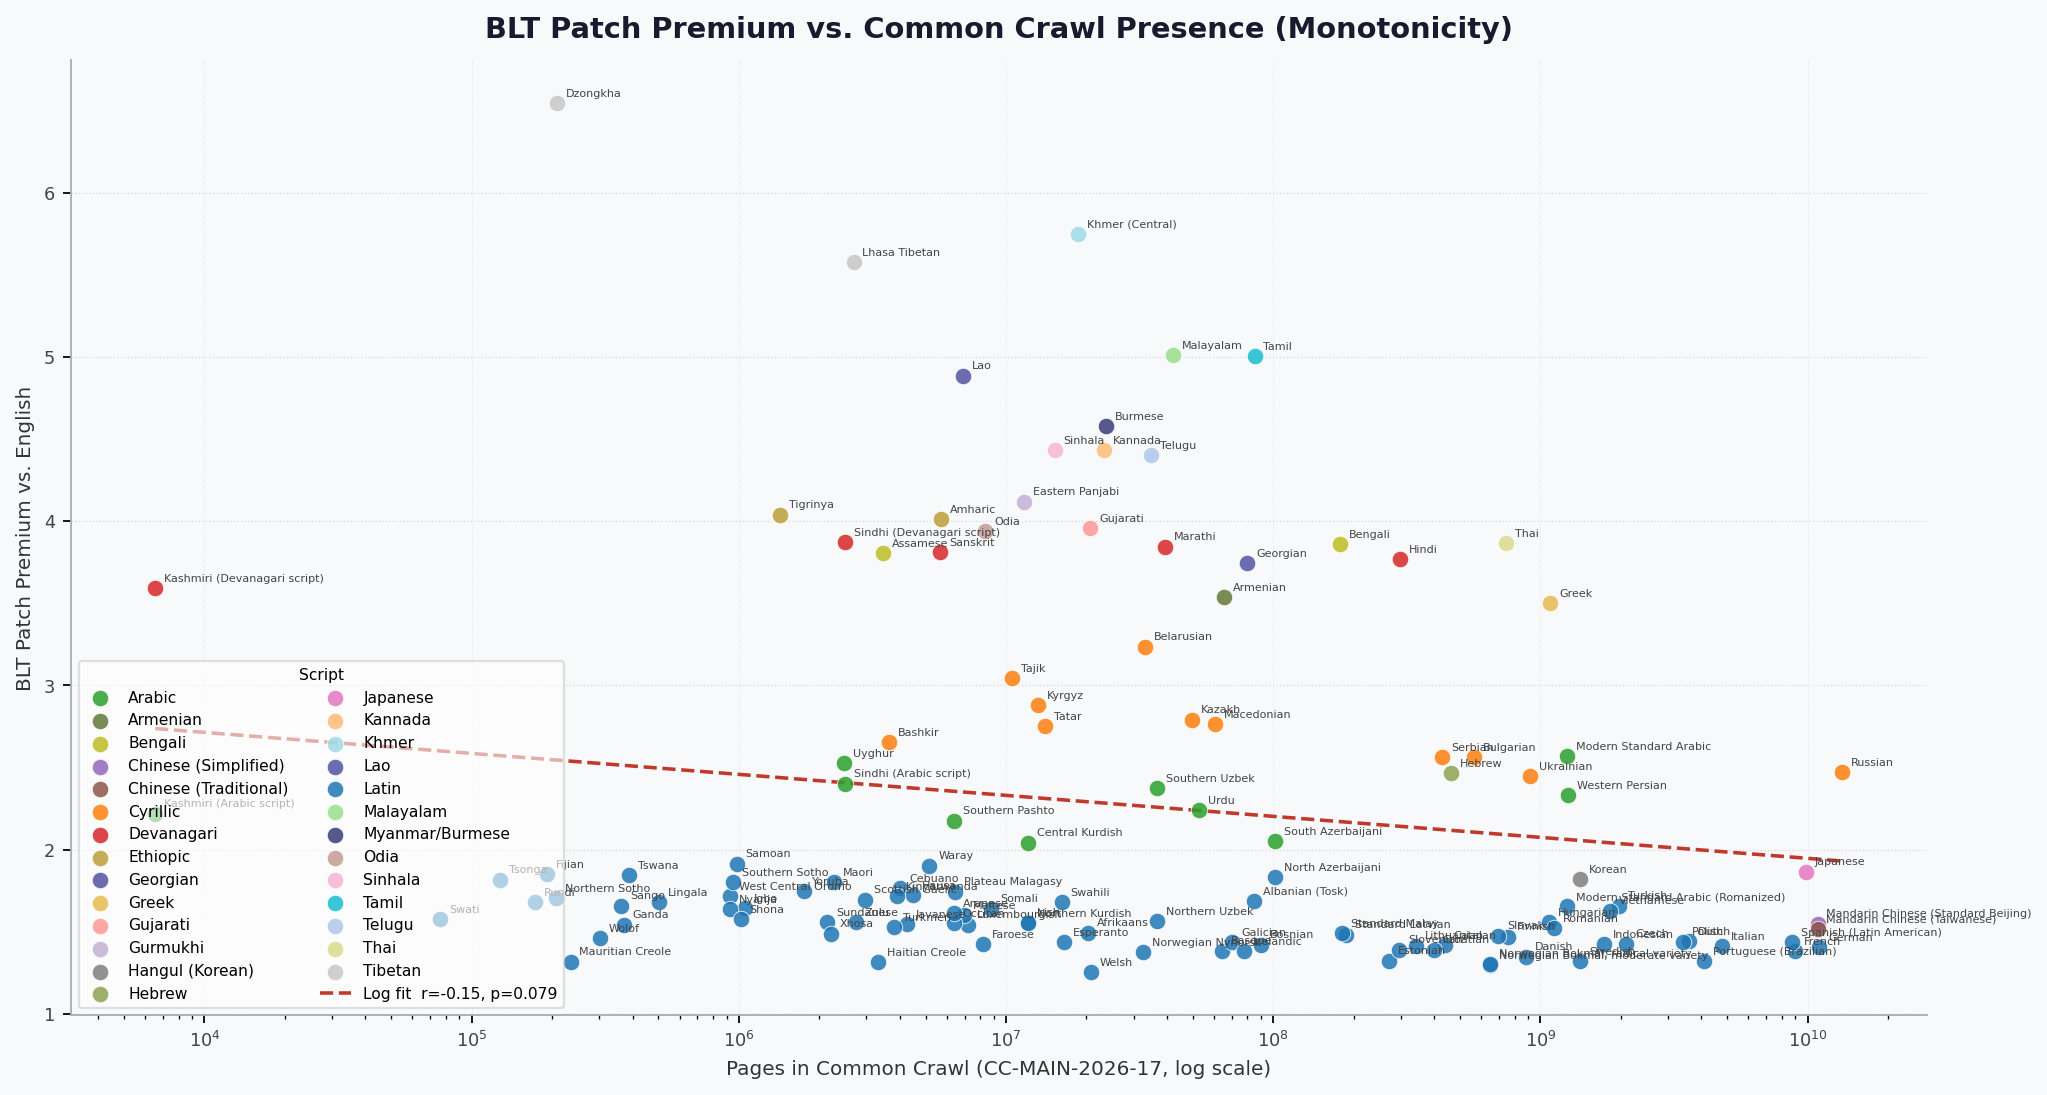
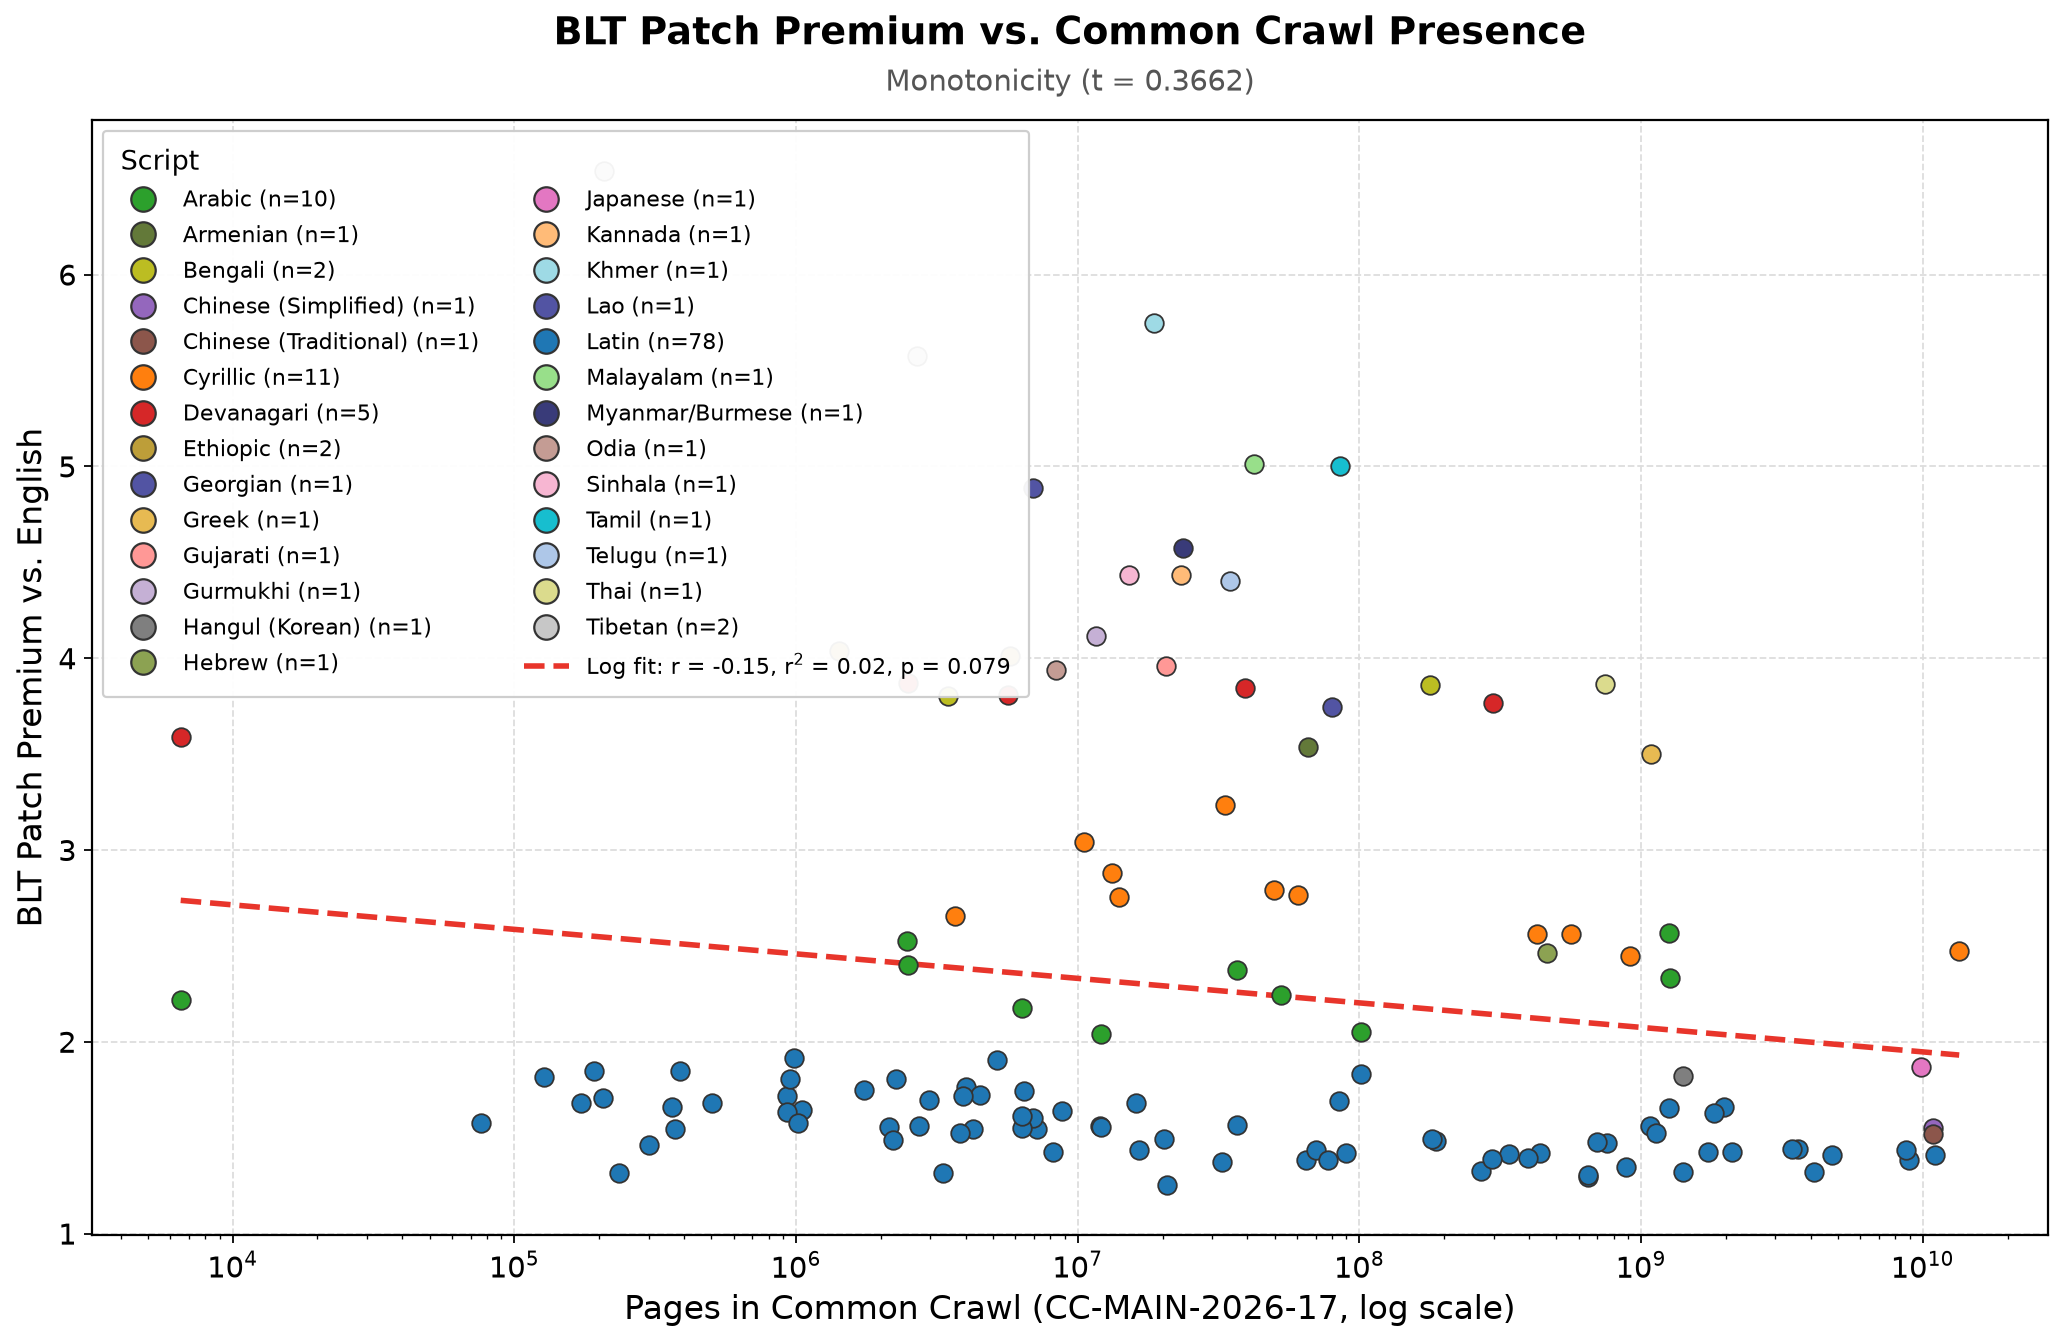
rerun plots for consistent styling

diff --git a/plotting_scripts/correlate_w_llama2_training_data.py b/plotting_scripts/correlate_w_llama2_training_data.py
@@ -1,6 +1,9 @@
 #!/usr/bin/env python3
 """
 plot_llama2_correlation.py
+
+run in the "plots" conda environment (see README.md) to generate charts and a CSV table
+
 Plots BLT patch premium vs. Llama 2 training-data volume, in two variants:
   1) raw reported token counts (as published in Touvron et al. Table 10)
   2) content-adjusted token counts, correcting for the fact that different
@@ -20,13 +23,18 @@ across languages regardless of how verbose their tokenisation happens to be.
 Adjusted percentages (for the LaTeX table) are saved to ADJUSTED_OUT_CSV.
 Charts are saved to charts/, one raw-token and one content-adjusted chart per
 premium mode listed in PREMIUM_COLS.
+
+Optional: `pip install adjustText` for automatic, non-overlapping point labels
+with leader lines. Without it, labels fall back to a fixed offset.
 """
 
 import json
+import re
 import pandas as pd
 import matplotlib
 matplotlib.use("Agg")
 import matplotlib.pyplot as plt
+import matplotlib.ticker as mticker
 import numpy as np
 from scipy import stats
 from pathlib import Path
@@ -56,6 +64,14 @@ TITLE_LABELS = {
     "raw_monotonicity": "Monotonicity",
     "norm_entropy":      "Normalisation",
 }
+
+# ── Plot style (matches the "Premium vs. Entropy mean" charts) ────────────────
+
+FIT_COLOR     = "#e8352b"
+EDGE_COLOR    = "#333333"
+LEADER_COLOR  = "#999999"
+SUBTITLE_GREY = "#555555"
+GRID_COLOR    = "#dddddd"
 
 # ── Llama 2 training data (billions of tokens), from the Llama 2 paper ────────
 
@@ -196,8 +212,6 @@ print(f"  {'Unknown':12s} {unknown_share_pct:7.3f}%   (unchanged, not content-ad
 
 # ── Save adjusted table (this is what feeds the LaTeX table's Percent' column) ─
 
-# ── Save adjusted table (this is what feeds the LaTeX table's Percent' column) ─
-
 adj_rows = []
 for iso, tokens_B in llama2_tokens.items():
     adj_rows.append({
@@ -267,52 +281,101 @@ def build_df(volume_by_iso, volume_col, prem_by_code):
     return df
 
 
-# ── Chart helper ────────────────────────────────────────────────────────────────
+# ── Chart helpers ───────────────────────────────────────────────────────────────
 
-def make_chart(df, volume_col, xlabel, title, out_path):
+def _label_points(ax, df, volume_col):
+    """Point labels with thin grey leader lines. Uses adjustText if installed
+    (non-overlapping placement, as in the reference charts); otherwise falls
+    back to a fixed offset."""
+    leader = dict(arrowstyle='-', color=LEADER_COLOR, lw=0.8)
+    try:
+        from adjustText import adjust_text
+    except ImportError:
+        adjust_text = None
+
+    if adjust_text is not None:
+        texts = [
+            ax.text(row[volume_col], row['premium'], row['language'],
+                    fontsize=11, color='#222222', zorder=4)
+            for _, row in df.iterrows()
+        ]
+        adjust_text(texts, x=df[volume_col].values, y=df['premium'].values,
+                    ax=ax, arrowprops=leader)
+    else:
+        for _, row in df.iterrows():
+            ax.annotate(row['language'], (row[volume_col], row['premium']),
+                        xytext=(12, 10), textcoords='offset points',
+                        fontsize=11, color='#222222', ha='left', va='bottom',
+                        arrowprops=leader, zorder=4)
+
+
+def make_chart(df, volume_col, xlabel, title, subtitle, out_path):
     log_vol = np.log(df[volume_col])
     slope, intercept, r, p, se = stats.linregress(log_vol, df['premium'])
     x_fit = np.linspace(df[volume_col].min(), df[volume_col].max(), 200)
     y_fit = slope * np.log(x_fit) + intercept
 
-    fig, ax = plt.subplots(figsize=(11, 7))
-    fig.patch.set_facecolor("#f8f9fa")
-    ax.set_facecolor("#f8f9fa")
+    fig, ax = plt.subplots(figsize=(11, 8.5))
+    fig.patch.set_facecolor("white")
+    ax.set_facecolor("white")
 
+    # points
     for _, row in df.iterrows():
         ax.scatter(row[volume_col], row['premium'],
-                   color=row['color'], edgecolors='white',
-                   linewidths=0.6, s=75, zorder=3, alpha=0.9)
-        ax.annotate(row['language'], (row[volume_col], row['premium']),
-                    fontsize=6.5, ha='left', va='bottom',
-                    xytext=(4, 3), textcoords='offset points', color='#333')
+                   color=row['color'], edgecolors=EDGE_COLOR,
+                   linewidths=1.0, s=220, zorder=3)
+    _label_points(ax, df, volume_col)
 
-    ax.plot(x_fit, y_fit, color='tomato', linewidth=1.8,
-            linestyle='--', label=f'Log fit  (r={r:.2f}, p={p:.3f})', zorder=2)
+    # fit line
+    fit_label = f'Log fit: r = {r:.2f}, r$^2$ = {r**2:.2f}, p = {p:.3f}'
+    ax.plot(x_fit, y_fit, color=FIT_COLOR, linewidth=2.5,
+            linestyle='--', zorder=2)
 
-    present_scripts = df['script'].unique()
+    # legend: one entry per script with counts, then the fit line
+    script_counts = df['script'].value_counts()
     script_handles = [
-        plt.Line2D([0], [0], marker='o', color='w',
-                   markerfacecolor=SCRIPT_COLORS[s], markersize=8, label=s)
-        for s in present_scripts if s in SCRIPT_COLORS
+        plt.Line2D([0], [0], marker='o', linestyle='None',
+                   markerfacecolor=SCRIPT_COLORS[s], markeredgecolor=EDGE_COLOR,
+                   markeredgewidth=1.0, markersize=13,
+                   label=f'{s} (n={script_counts[s]})')
+        for s in df['script'].unique() if s in SCRIPT_COLORS
     ]
     script_handles.append(
-        plt.Line2D([0], [1], color='tomato', linewidth=1.8,
-                   linestyle='--', label=f'Log fit (r={r:.2f}, p={p:.3f})')
+        plt.Line2D([0], [0], color=FIT_COLOR, linewidth=2.5,
+                   linestyle='--', label=fit_label)
     )
-    ax.legend(handles=script_handles, title='Script', fontsize=8,
-              title_fontsize=9, loc='lower left', framealpha=0.9)
+    leg = ax.legend(handles=script_handles, title='Script', fontsize=12,
+                    title_fontsize=13, loc='best', frameon=True,
+                    framealpha=0.95, edgecolor='#cccccc', fancybox=True,
+                    borderpad=0.8, labelspacing=0.7)
+    leg._legend_box.align = "left"
 
-    ax.set_xlabel(xlabel, fontsize=11)
-    ax.set_ylabel('Tokenisation premium vs. English', fontsize=11)
-    ax.set_title(title, fontsize=12, fontweight='bold')
-    ax.grid(True, alpha=0.3, linestyle='--')
+    # titles
+    ax.set_title(title, fontsize=17, fontweight='bold', pad=34)
+    ax.text(0.5, 1.02, subtitle, transform=ax.transAxes,
+            ha='center', va='bottom', fontsize=13, color=SUBTITLE_GREY)
+
+    # axes
+    ax.set_xlabel(xlabel, fontsize=15)
+    ax.set_ylabel('Tokenisation premium vs. English', fontsize=15)
+    ax.tick_params(axis='both', labelsize=13)
+
     ax.set_xscale('log')
-    ax.spines[["top", "right"]].set_visible(False)
-    ax.spines[["left", "bottom"]].set_color("#aaaaaa")
+    ax.xaxis.set_major_locator(mticker.LogLocator(base=10, subs=(1.0, 2.0, 5.0)))
+    ax.xaxis.set_major_formatter(mticker.FuncFormatter(lambda v, _: f'{v:g}'))
+    ax.xaxis.set_minor_formatter(mticker.NullFormatter())
+
+    ax.grid(True, which='major', linestyle='--', color=GRID_COLOR, linewidth=0.8)
+    ax.grid(False, which='minor')
+    ax.set_axisbelow(True)
+
+    for spine in ax.spines.values():
+        spine.set_visible(True)
+        spine.set_color('black')
+        spine.set_linewidth(1.0)
 
     plt.tight_layout()
-    fig.savefig(out_path, dpi=150, bbox_inches='tight')
+    fig.savefig(out_path, dpi=150, bbox_inches='tight', facecolor='white')
     plt.close(fig)
     print(f"Pearson r ({volume_col}, log): {r:.3f}, p={p:.4f}, N={len(df)}  -> {out_path}")
 
@@ -328,19 +391,24 @@ for mode_label, prem_col in PREMIUM_COLS.items():
     premium_stem = prem_col.replace("_pps_premium", "")
     mode_title   = TITLE_LABELS.get(mode_label, mode_label)
 
+    m = re.search(r"_t_([\d.]+)", prem_col)
+    thresh_str = f" (t = {m.group(1)})" if m else ""
+
     df_raw = build_df(llama2_tokens, 'tokens_B', prem_by_code)
     df_adj = build_df(adjusted_tokens_B, 'adj_tokens_B', prem_by_code)
 
     make_chart(
         df_raw, 'tokens_B',
         xlabel='Training data in Llama 2 (billions of tokens)',
-        title=f'BLT Patch Premium vs. Llama 2 Training Data (Raw Tokens, {mode_title})',
+        title='BLT Patch Premium vs. Llama 2 Training Data',
+        subtitle=f'{mode_title}, raw token counts{thresh_str}',
         out_path=f'charts/premium_vs_llama2_data_{premium_stem}.png',
     )
 
     make_chart(
         df_adj, 'adj_tokens_B',
         xlabel='Estimated training data in Llama 2 (billions of tokens, content-adjusted)',
-        title=f'BLT Patch Premium vs. Llama 2 Training Data (Content-Adjusted, {mode_title})',
+        title='BLT Patch Premium vs. Llama 2 Training Data',
+        subtitle=f'{mode_title}, content-adjusted token counts{thresh_str}',
         out_path=f'charts/premium_vs_llama2_data_adjusted_{premium_stem}.png',
     )

diff --git a/plotting_scripts/correlate_w_cc_pages.py b/plotting_scripts/correlate_w_cc_pages.py
@@ -6,9 +6,13 @@ contains BOTH the BLT patch-premium results and the Common Crawl page counts
 in a single file — then plots BLT patch premium vs. Common Crawl page count
 with per-script colouring and a log-scale x-axis, for both raw entropy and
 monotonicity premiums.
+
+Optional: `pip install adjustText` for automatic, non-overlapping point labels
+with leader lines. Without it, labels fall back to a fixed offset.
 """
 
 import csv
+import re
 import matplotlib
 matplotlib.use("Agg")
 import matplotlib.pyplot as plt
@@ -43,12 +47,18 @@ TITLE_LABELS = {
     "norm_entropy":      "Normalisation",
 }
 
-# ── Style ─────────────────────────────────────────────────────────────────────
+# ── Style (matches the "Premium vs. Entropy mean" charts) ─────────────────────
 
-FONT_TITLE = {"fontsize": 13, "fontweight": "bold", "color": "#1a1a2e"}
-FONT_AXIS  = {"fontsize": 9,  "color": "#333333"}
-FONT_TICK  = {"labelsize": 8, "labelcolor": "#444444"}
+FIT_COLOR     = "#e8352b"
+EDGE_COLOR    = "#333333"
+LEADER_COLOR  = "#999999"
+SUBTITLE_GREY = "#555555"
+GRID_COLOR    = "#dddddd"
 
+# With many languages, full-size labels and markers would swamp the plot, so
+# they shrink once the point count passes this threshold.
+DENSE_THRESHOLD = 40
+SHOW_LABELS = False   # set True to label every point with its language name
 # ── 1. Load the master CSV ────────────────────────────────────────────────────
 
 def load_data(path, premium_col):
@@ -121,7 +131,34 @@ def build_matched(data):
 
 # ── 4 & 5. Regression + plot, per premium mode ─────────────────────────────────
 
-def make_chart(matched, mode_title, out_path):
+def _label_points(ax, matched, fontsize):
+    """Point labels with thin grey leader lines. Uses adjustText if installed;
+    otherwise falls back to a fixed offset."""
+    leader = dict(arrowstyle="-", color=LEADER_COLOR, lw=0.6)
+    try:
+        from adjustText import adjust_text
+    except ImportError:
+        adjust_text = None
+
+    if adjust_text is not None:
+        texts = [
+            ax.text(r["cc_pages"], r["premium"], r["language"],
+                    fontsize=fontsize, color="#222222", zorder=5)
+            for r in matched
+        ]
+        adjust_text(texts,
+                    x=np.array([r["cc_pages"] for r in matched]),
+                    y=np.array([r["premium"] for r in matched]),
+                    ax=ax, arrowprops=leader)
+    else:
+        for r in matched:
+            ax.annotate(r["language"], xy=(r["cc_pages"], r["premium"]),
+                        xytext=(8, 6), textcoords="offset points",
+                        fontsize=fontsize, color="#222222", zorder=5,
+                        arrowprops=leader)
+
+
+def make_chart(matched, mode_title, subtitle, out_path):
     log_x  = np.log10([r["cc_pages"] for r in matched])
     y      = np.array([r["premium"]  for r in matched])
     slope, intercept, r_val, p_val, _ = stats.linregress(log_x, y)
@@ -134,49 +171,74 @@ def make_chart(matched, mode_title, out_path):
     def get_color(script):
         return SCRIPT_COLORS.get(script, fallback.get(script, "#888888"))
 
-    fig, ax = plt.subplots(figsize=(13, 7))
-    fig.patch.set_facecolor("#f8f9fa")
-    ax.set_facecolor("#f8f9fa")
+    dense       = len(matched) > DENSE_THRESHOLD
+    marker_size = 70 if dense else 220
+    label_size  = 6.5 if dense else 11
 
+    fig, ax = plt.subplots(figsize=(13, 8.5))
+    fig.patch.set_facecolor("white")
+    ax.set_facecolor("white")
+
+    # points
     for script in scripts_present:
         pts = [r for r in matched if r["script"] == script]
         ax.scatter(
             [r["cc_pages"] for r in pts],
             [r["premium"]  for r in pts],
-            color=get_color(script), label=script,
-            s=55, zorder=4, alpha=0.85,
-            edgecolors="white", linewidths=0.4,
+            color=get_color(script),
+            s=marker_size, zorder=4,
+            edgecolors=EDGE_COLOR, linewidths=0.8 if dense else 1.0,
         )
+    if SHOW_LABELS:
+        _label_points(ax, matched, label_size)
 
-    for r in matched:
-        ax.annotate(
-            r["language"],
-            xy=(r["cc_pages"], r["premium"]),
-            xytext=(4, 3), textcoords="offset points",
-            fontsize=5, color="#444444", zorder=5,
-        )
-
+    # fit line
     x_range = np.linspace(log_x.min(), log_x.max(), 300)
-    ax.plot(
-        10**x_range, intercept + slope * x_range,
-        color="#c0392b", linewidth=1.6, linestyle="--", zorder=3,
-        label=f"Log fit  r={r_val:.2f}, p={p_val:.3f}",
-    )
+    fit_label = f"Log fit: r = {r_val:.2f}, r$^2$ = {r_val**2:.2f}, p = {p_val:.3f}"
+    ax.plot(10**x_range, intercept + slope * x_range,
+            color=FIT_COLOR, linewidth=2.5, linestyle="--", zorder=3)
 
+    # legend: one entry per script with counts, then the fit line
+    handles = []
+    for script in scripts_present:
+        n = sum(1 for r in matched if r["script"] == script)
+        handles.append(plt.Line2D(
+            [0], [0], marker="o", linestyle="None",
+            markerfacecolor=get_color(script), markeredgecolor=EDGE_COLOR,
+            markeredgewidth=1.0, markersize=11, label=f"{script} (n={n})",
+        ))
+    handles.append(plt.Line2D([0], [0], color=FIT_COLOR, linewidth=2.5,
+                              linestyle="--", label=fit_label))
+    n_cols = 2 if len(scripts_present) > 8 else 1
+    leg = ax.legend(handles=handles, title="Script", fontsize=10 if n_cols == 2 else 12,
+                    title_fontsize=12, loc="best", ncol=n_cols, frameon=True,
+                    framealpha=0.95, edgecolor="#cccccc", fancybox=True,
+                    borderpad=0.8, labelspacing=0.6)
+    leg._legend_box.align = "left"
+
+    # titles
+    ax.set_title("BLT Patch Premium vs. Common Crawl Presence",
+                 fontsize=17, fontweight="bold", pad=34)
+    ax.text(0.5, 1.02, subtitle, transform=ax.transAxes,
+            ha="center", va="bottom", fontsize=13, color=SUBTITLE_GREY)
+
+    # axes
     ax.set_xscale("log")
-    ax.set_xlabel(f"Pages in Common Crawl ({CC_CRAWL}, log scale)", **FONT_AXIS)
-    ax.set_ylabel("BLT Patch Premium vs. English", **FONT_AXIS)
-    ax.set_title(f"BLT Patch Premium vs. Common Crawl Presence ({mode_title})", **FONT_TITLE, pad=10)
-    ax.grid(axis="y", color="#cccccc", linewidth=0.6, linestyle=":", alpha=0.7, zorder=1)
-    ax.grid(axis="x", color="#cccccc", linewidth=0.4, linestyle=":", alpha=0.5, zorder=1)
-    ax.spines[["top", "right"]].set_visible(False)
-    ax.spines[["left", "bottom"]].set_color("#aaaaaa")
-    ax.tick_params(**FONT_TICK)
-    ax.legend(fontsize=7, framealpha=0.6, ncol=2, loc="lower left",
-              title="Script", title_fontsize=7)
+    ax.set_xlabel(f"Pages in Common Crawl ({CC_CRAWL}, log scale)", fontsize=15)
+    ax.set_ylabel("BLT Patch Premium vs. English", fontsize=15)
+    ax.tick_params(axis="both", labelsize=13)
+
+    ax.grid(True, which="major", linestyle="--", color=GRID_COLOR, linewidth=0.8)
+    ax.grid(False, which="minor")
+    ax.set_axisbelow(True)
+
+    for spine in ax.spines.values():
+        spine.set_visible(True)
+        spine.set_color("black")
+        spine.set_linewidth(1.0)
 
     plt.tight_layout()
-    fig.savefig(out_path, dpi=160, bbox_inches="tight")
+    fig.savefig(out_path, dpi=160, bbox_inches="tight", facecolor="white")
     plt.close(fig)
     print(f"Saved -> {out_path}\n")
 
@@ -196,5 +258,8 @@ for mode_label, premium_col in PREMIUM_COLS.items():
         continue
 
     mode_title = TITLE_LABELS.get(mode_label, mode_label)
+    m = re.search(r"_t_([\d.]+)", premium_col)
+    subtitle = f"{mode_title}" + (f" (t = {m.group(1)})" if m else "")
+
     out_path = OUT_DIR / f"premium_vs_cc_pages_{premium_col.replace('_pps_premium', '')}.png"
-    make_chart(matched, mode_title, out_path)
+    make_chart(matched, mode_title, subtitle, out_path)
